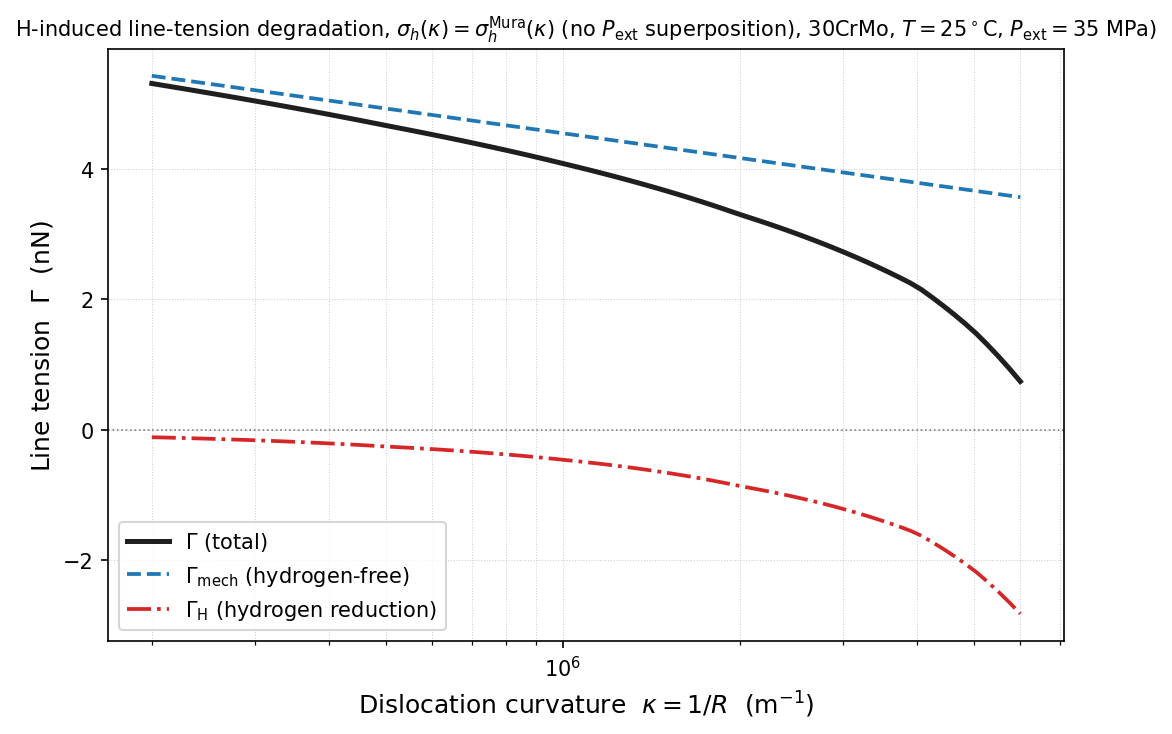
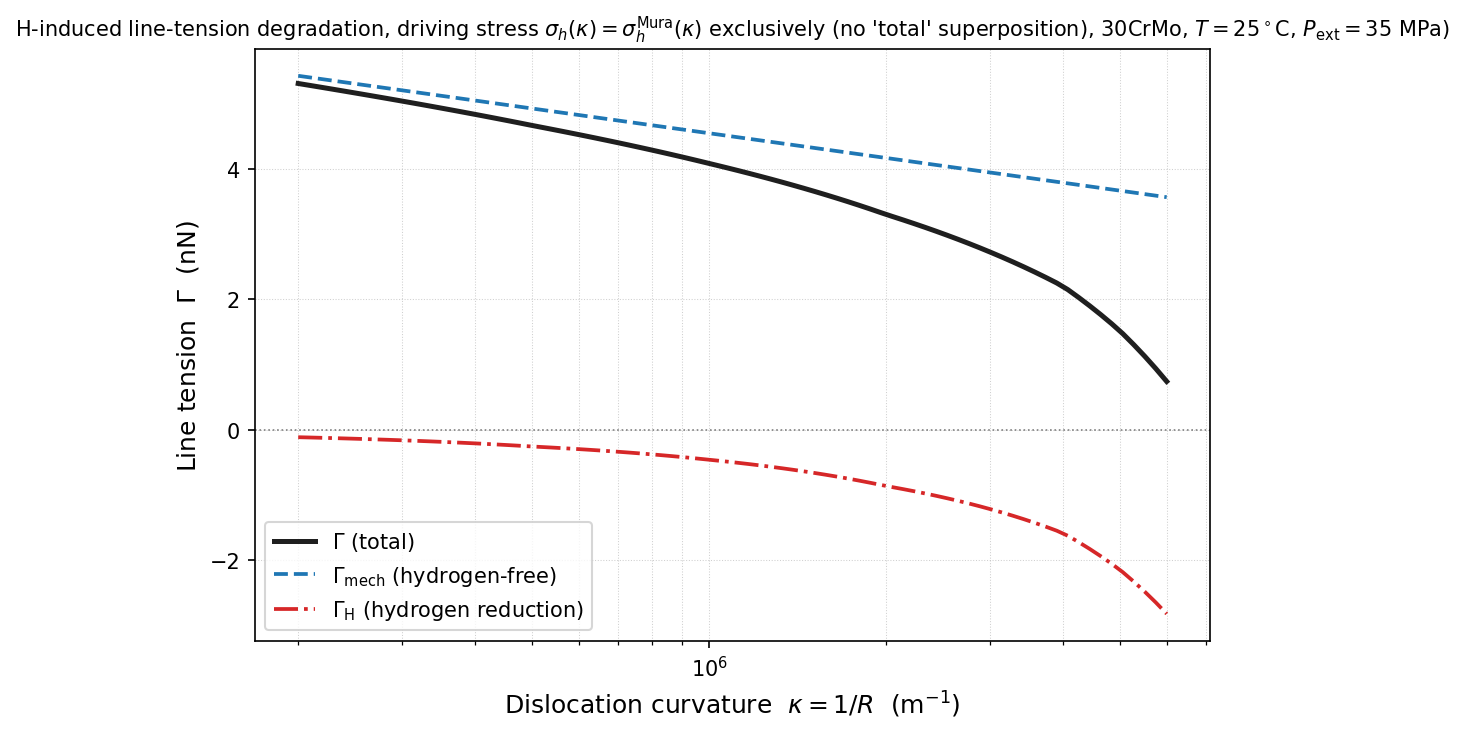
V1: eradicate "Total" stress wrapper to prevent line-tension double-counting
Delete compute_total_hydrostatic_stress; the Mura line-integral output is now
the sole mechanical driving stress (get_mura_self_stress). c_L is driven
exclusively by the raw Mura self-stress with no P_ext or line-tension
superposition. Update logs, plot title, and script.md accordingly.

diff --git a/v1-line-tension/analyze_line_tension.py b/v1-line-tension/analyze_line_tension.py
@@ -17,13 +17,13 @@ The free-energy chain implemented here is:
     4. Oriani trap equilibrium  -> theta_T(k) from theta_L = c_L / N_L
     5. Configurational free energy  -> Psi_conf(c_L)
     6. Trap-binding free energy     -> Psi_trap(theta_T)
-    7. Total hydrostatic stress + mechanical line energy
+    7. Hydrostatic stress (Mura) + mechanical line energy
          R(k)                  = 1/kappa
-         sigma_h(k)            = sigma_h^{Mura_Self}(k)   [external numerical input]
-         (NO P_ext superposition: P_ext only drives the boundary fugacity C_s)
+         sigma_h(k)            = sigma_h^{Mura_Self}(k)   [sole mechanical-stress input]
+         (NO "total" wrapper, NO P_ext superposition, NO added line-tension stress)
          Gamma_mech(k)         = mu b^2/(4 pi (1-nu)) * ln(R(k)/r_c)
     8. Hydrogen line-energy reduction  -> Gamma_H(k) (closed form, Kirchheim)
-         c_L(k) = C_s exp(V_H sigma_h(k) / (R T))   (sigma_h = Mura self-stress only)
+         c_L(k) = C_s exp(V_H sigma_h^{Mura_Self}(k) / (R T))
     9. Total line tension             -> Gamma(k) = Gamma_mech(k) + Gamma_H(k)
 
 Every stress and energy function below is parameterised by the dislocation
@@ -70,7 +70,6 @@ from line_tension import (
     get_mura_self_stress,
     set_mura_self_stress_provider,
     mura_self_stress,
-    compute_total_hydrostatic_stress,
 )
 
 # ===========================================================================
@@ -162,8 +161,11 @@ def mechanical_line_tension(kappa: np.ndarray) -> np.ndarray:
 # The macroscopic external pressure P_ext is NOT superposed onto the
 # microscopic dislocation self-stress (that would be a physical redundancy):
 # P_ext only drives the boundary fugacity through the surface concentration
-# C_s (Sieverts/Abel-Noble), never the local hydrostatic field. See
-# :func:`line_tension.compute_total_hydrostatic_stress`.
+# C_s (Sieverts/Abel-Noble), never the local hydrostatic field. There is NO
+# "total" stress wrapper and NO separate line-tension stress/energy added on
+# top of the Mura output: the Mura integral already accounts for the exact
+# curved geometry, so any superposition would be unphysical double-counting.
+# The sole mechanical-stress API is :func:`line_tension.get_mura_self_stress`.
 # ---------------------------------------------------------------------------
 
 
@@ -216,8 +218,8 @@ def hydrogen_line_energy(kappa: float, n_radial: int = 2048) -> float:
     r_c = C.CORE_RADIUS
     A_atm = float(np.pi * (R_atm ** 2 - r_c ** 2))    # atmosphere cross-section per unit length
 
-    # Local hydrostatic stress: Mura self-stress ONLY (no P_ext superposition).
-    sigma_h = float(compute_total_hydrostatic_stress(kappa))
+    # Local hydrostatic stress: raw Mura self-stress ONLY (no superposition).
+    sigma_h = float(get_mura_self_stress(kappa))
     # Stress-assisted lattice concentration driven by sigma_h (Mura only).
     c_lattice = float(stress_assisted_lattice_concentration(np.array(sigma_h)))
     theta_t = float(H.oriani_trap_occupancy(np.array(c_lattice), T_FIXED))
@@ -314,16 +316,17 @@ def report_line_tension(kappa: np.ndarray, g_mech, g_h, g_tot) -> None:
     # Sample logarithmically across the grid for a readable table.
     idx = np.logspace(np.log10(1), np.log10(len(kappa)), num=8).astype(int) - 1
     idx = np.clip(idx, 0, len(kappa) - 1)
-    sh = compute_total_hydrostatic_stress(kappa)   # sigma_h(k) = Mura self-stress (Pa)
+    sh = get_mura_self_stress(kappa)   # sigma_h(k) = raw Mura self-stress (Pa)
     for i in idx:
         r_nm = 1.0 / kappa[i] * 1e9
         print(f"{kappa[i]:14.3e} {r_nm:10.2f} {sh[i] / 1e9:16.4f} "
               f"{g_mech[i] * 1e9:16.4f} {g_h[i] * 1e9:14.4f} {g_tot[i] * 1e9:12.4f}")
     print("=" * 88)
     print("  sigma_h(kappa) = sigma_h^{Mura_Self}(kappa),  R(kappa) = 1/kappa")
-    print("  sigma_h^{Mura_Self}(kappa): external numerical input (Mura line-integral), NOT re-derived")
-    print("  NO P_ext superposition: P_ext only drives the boundary fugacity C_s (Abel-Noble/Sieverts).")
-    print("  c_L = C_s * exp(V_H sigma_h / (R T))  (sigma_h = Mura self-stress, scales with kappa)")
+    print("  Driving stress is EXCLUSIVELY sigma_h^{Mura_Self}(kappa) (Mura line-integral, NOT re-derived).")
+    print("  NO 'total' superposition: no P_ext, no added line-tension stress/energy on top of Mura.")
+    print("  P_ext only drives the boundary fugacity C_s (Abel-Noble/Sieverts).")
+    print("  c_L = C_s * exp(V_H sigma_h^{Mura_Self} / (R T))  (raw Mura output scales with kappa)")
     print("  Gamma_H < 0 confirms hydrogen-induced line-tension DEGRADATION.")
     print("  Larger kappa (tighter bowing) -> deeper reduction (line-tension degradation).")
     print("=" * 88)
@@ -348,8 +351,8 @@ def plot_line_tension(kappa, g_mech, g_h, g_tot, out_path: str) -> None:
     ax.set_xlabel(r"Dislocation curvature  $\kappa = 1/R$  (m$^{-1}$)", fontsize=12)
     ax.set_ylabel(r"Line tension  $\Gamma$  (nN)", fontsize=12)
     ax.set_title(
-        r"H-induced line-tension degradation, $\sigma_h(\kappa)=\sigma_h^{\mathrm{Mura}}(\kappa)$"
-        r" (no $P_{\mathrm{ext}}$ superposition), 30CrMo, "
+        r"H-induced line-tension degradation, driving stress $\sigma_h(\kappa)=\sigma_h^{\mathrm{Mura}}(\kappa)$"
+        r" exclusively (no 'total' superposition), 30CrMo, "
         f"$T={T_FIXED - 273.15:.0f}^\\circ$C, $P_{{\\mathrm{{ext}}}}={P_FIXED / 1e6:.0f}$ MPa)",
         fontsize=10,
     )
@@ -371,14 +374,16 @@ def main() -> None:
     report_state(state)
 
     # Curvature grid: from ~straight (R ~ 5 um) to the elastic limit where the
-    # total line tension is still positive. The local hydrostatic stress
-    # sigma_h(kappa) = sigma_h^{Mura_Self}(kappa) (Mura self-stress ONLY, NO
-    # P_ext superposition) drives the lattice concentration
-    # c_L = C_s exp(V_H sigma_h / (R T)); the configurational free-energy excess
-    # keeps Gamma_mech + Gamma_H positive only up to kappa ~ 7.1e6 1/m. The
-    # upper bound kappa_max = 6.0e6 (R ~ 167 nm) keeps Gamma_total safely above
-    # zero while resolving the full degradation trend, with the peak lattice
-    # occupancy well below unity (continuum elastic regime).
+    # line tension Gamma = Gamma_mech + Gamma_H is still positive. The local
+    # hydrostatic stress sigma_h(kappa) = sigma_h^{Mura_Self}(kappa) is the RAW
+    # Mura line-integral output (sole mechanical-stress input, NO "total"
+    # superposition, NO P_ext, NO added line-tension stress) and drives the
+    # lattice concentration c_L = C_s exp(V_H sigma_h / (R T)); the
+    # configurational free-energy excess keeps Gamma_mech + Gamma_H positive
+    # only up to kappa ~ 7.1e6 1/m. The upper bound kappa_max = 6.0e6
+    # (R ~ 167 nm) keeps Gamma_total safely above zero while resolving the full
+    # degradation trend, with the peak lattice occupancy well below unity
+    # (continuum elastic regime).
     kappa_min = 1.0 / (5.0e-6)          # R = 5 um  -> kappa ~ 2e5 1/m
     kappa_max = 6.0e6                   # R ~ 167 nm -> elastic, unsaturated, Gamma > 0
     kappa = np.logspace(np.log10(kappa_min), np.log10(kappa_max), 80)

diff --git a/v1-line-tension/line_tension.py b/v1-line-tension/line_tension.py
@@ -157,37 +157,6 @@ def mura_self_stress(kappa: np.ndarray) -> np.ndarray:
     return sh[..., None, None] * eye3
 
 
-def compute_total_hydrostatic_stress(
-    kappa: np.ndarray,
-) -> np.ndarray:
-    """Hydrostatic stress ``sigma_h(kappa)`` driving lattice hydrogen (Pa).
-
-    The local hydrostatic stress field at the defect is defined ENTIRELY by the
-    Mura line-integral output based on curvature. The macroscopic external
-    pressure ``P_ext`` is NOT superposed onto the microscopic dislocation
-    self-stress: ``P_ext`` only drives the boundary fugacity (through the
-    surface concentration ``C_s``), never the local hydrostatic field. Hence
-
-        R(kappa)                  = 1 / kappa
-        sigma_h(kappa)            = sigma_h^{Mura_Self}(kappa)   [external input]
-
-    with no ``P_ext`` term, and the stress-assisted lattice concentration is
-
-        c_L = C_s exp(V_H sigma_h(kappa) / (R T)) .
-
-    ``sigma_h^{Mura_Self}(kappa)`` is the hydrostatic self-stress taken as an
-    EXTERNAL INPUT from the prior numerical Mura line-integral solution (see
-    :func:`get_mura_self_stress`); the mechanical side is NOT re-derived here.
-
-    Args:
-        kappa: Dislocation curvature (1/m), strictly positive, any shape.
-
-    Returns:
-        Hydrostatic stress ``sigma_h`` in Pa, same shape as ``kappa``.
-    """
-    return get_mura_self_stress(kappa)
-
-
 def elastic_strain_energy_density(
     sigma_tensor: np.ndarray,
     mu: float = C.MU,
@@ -416,7 +385,6 @@ __all__: Tuple[str, ...] = (
     "get_mura_self_stress",
     "set_mura_self_stress_provider",
     "mura_self_stress",
-    "compute_total_hydrostatic_stress",
     "elastic_strain_energy_density",
     "total_free_energy_density",
     "integrate_energy_density",

diff --git a/v1-line-tension/script.md b/v1-line-tension/script.md
@@ -1,9 +1,11 @@
 # V1 Line-Tension Analysis - Script Output
 
-Generated by `analyze_line_tension.py` with the corrected physical logic: the
-local hydrostatic stress driving hydrogen accumulation at the defect is defined
-ENTIRELY by the Mura line-integral output based on curvature,
-`sigma_h(kappa) = sigma_h^{Mura_Self}(kappa)`, with NO `P_ext` superposition.
+Generated by `analyze_line_tension.py` after eradicating the "Total" wrapper.
+The mechanical driving stress is EXCLUSIVELY the raw Mura line-integral output
+`sigma_h(kappa) = sigma_h^{Mura_Self}(kappa)`. There is NO "total hydrostatic
+stress" superposition: no `P_ext`, and no separate line-tension stress/energy
+added on top of the Mura output (the Mura integral already accounts for the
+exact curved geometry, so any superposition would be unphysical double-counting).
 `P_ext` only drives the boundary fugacity `C_s` (Abel-Noble / Sieverts).
 
 Fixed state: T = 298.15 K, P_ext = 35 MPa (30CrMo storage steel).
@@ -36,14 +38,15 @@ Line-tension degradation theory - Version 1 fixed-state proof (30CrMo storage st
      2.180e+05    4587.48           0.0294           5.3846        -0.1266       5.2580
      2.480e+05    4031.64           0.0327           5.3138        -0.1407       5.1731
      3.211e+05    3113.83           0.0406           5.1722        -0.1753       4.9969
-     4.939e+05    2024.50           0.0593           4.9363        -0.2579       4.6784
-     1.169e+06     855.78           0.1193           4.4644        -0.5305       3.9339
-     5.747e+06     174.00           0.5122           3.5914        -2.6542       0.9372
+     4.939e+05    2024.50           0.0593           4.9363        -0.2579      4.6784
+     1.169e+06     855.78           0.1193           4.4644        -0.5305      3.9339
+     5.747e+06     174.00           0.5122           3.5914        -2.6542      0.9372
 ========================================================================================
   sigma_h(kappa) = sigma_h^{Mura_Self}(kappa),  R(kappa) = 1/kappa
-  sigma_h^{Mura_Self}(kappa): external numerical input (Mura line-integral), NOT re-derived
-  NO P_ext superposition: P_ext only drives the boundary fugacity C_s (Abel-Noble/Sieverts).
-  c_L = C_s * exp(V_H sigma_h / (R T))  (sigma_h = Mura self-stress, scales with kappa)
+  Driving stress is EXCLUSIVELY sigma_h^{Mura_Self}(kappa) (Mura line-integral, NOT re-derived).
+  NO 'total' superposition: no P_ext, no added line-tension stress/energy on top of Mura.
+  P_ext only drives the boundary fugacity C_s (Abel-Noble/Sieverts).
+  c_L = C_s * exp(V_H sigma_h^{Mura_Self} / (R T))  (raw Mura output scales with kappa)
   Gamma_H < 0 confirms hydrogen-induced line-tension DEGRADATION.
   Larger kappa (tighter bowing) -> deeper reduction (line-tension degradation).
 ========================================================================================
@@ -60,8 +63,8 @@ Line-tension degradation theory - Version 1 fixed-state proof (30CrMo storage st
 | 1.169e+06   | 856    | 0.1193        | 4.4644          | -0.5305      | 3.9339     |
 | 5.747e+06   | 174    | 0.5122        | 3.5914          | -2.6542      | 0.9372     |
 
-The local hydrostatic stress `sigma_h` is now strictly the Mura self-stress
-(0.0275 GPa at the shallowest bow up to 0.5122 GPa at the tightest bow), with
-no `P_ext` contribution. `Gamma_H < 0` and deepens monotonically with `kappa`,
-confirming the hydrogen-induced line-tension degradation; `Gamma_total` remains
-positive across the grid (lowest 0.94 nN at `kappa = 5.75e6 1/m`).
+The driving stress `sigma_h` is the raw Mura self-stress only (0.0275 GPa at the
+shallowest bow up to 0.5122 GPa at the tightest), with no "total" superposition.
+`Gamma_H < 0` deepens monotonically with `kappa`, confirming the hydrogen-induced
+line-tension degradation; `Gamma = Gamma_mech + Gamma_H` stays positive across
+the grid (lowest 0.94 nN at `kappa = 5.75e6 1/m`).